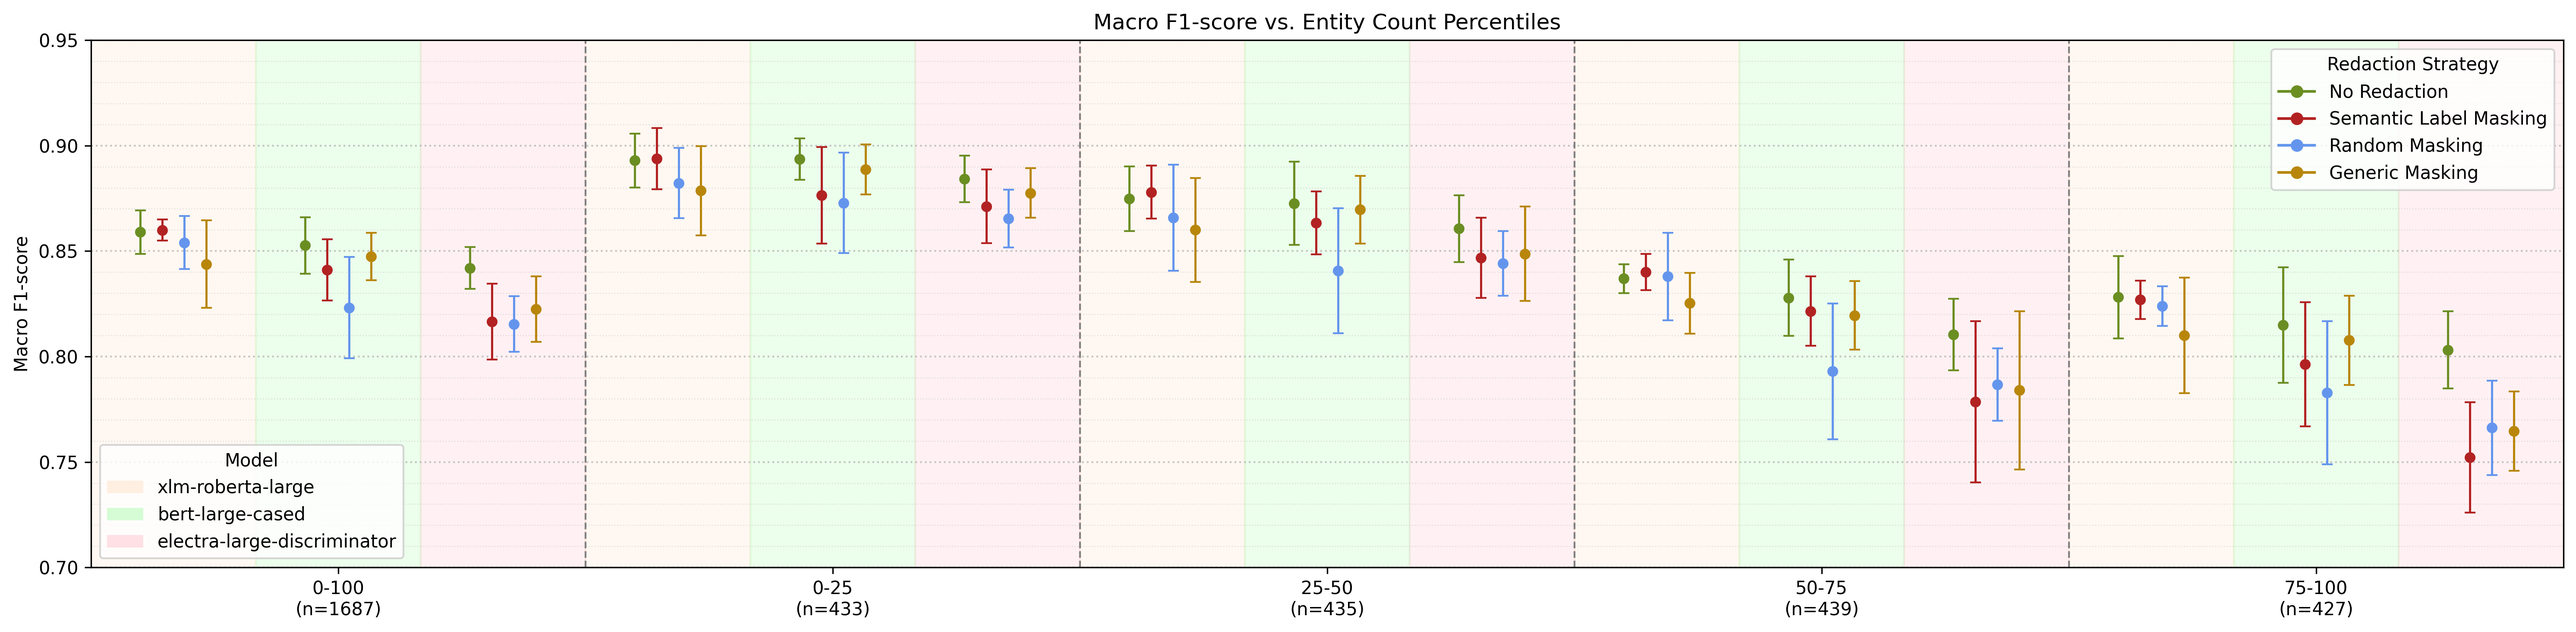
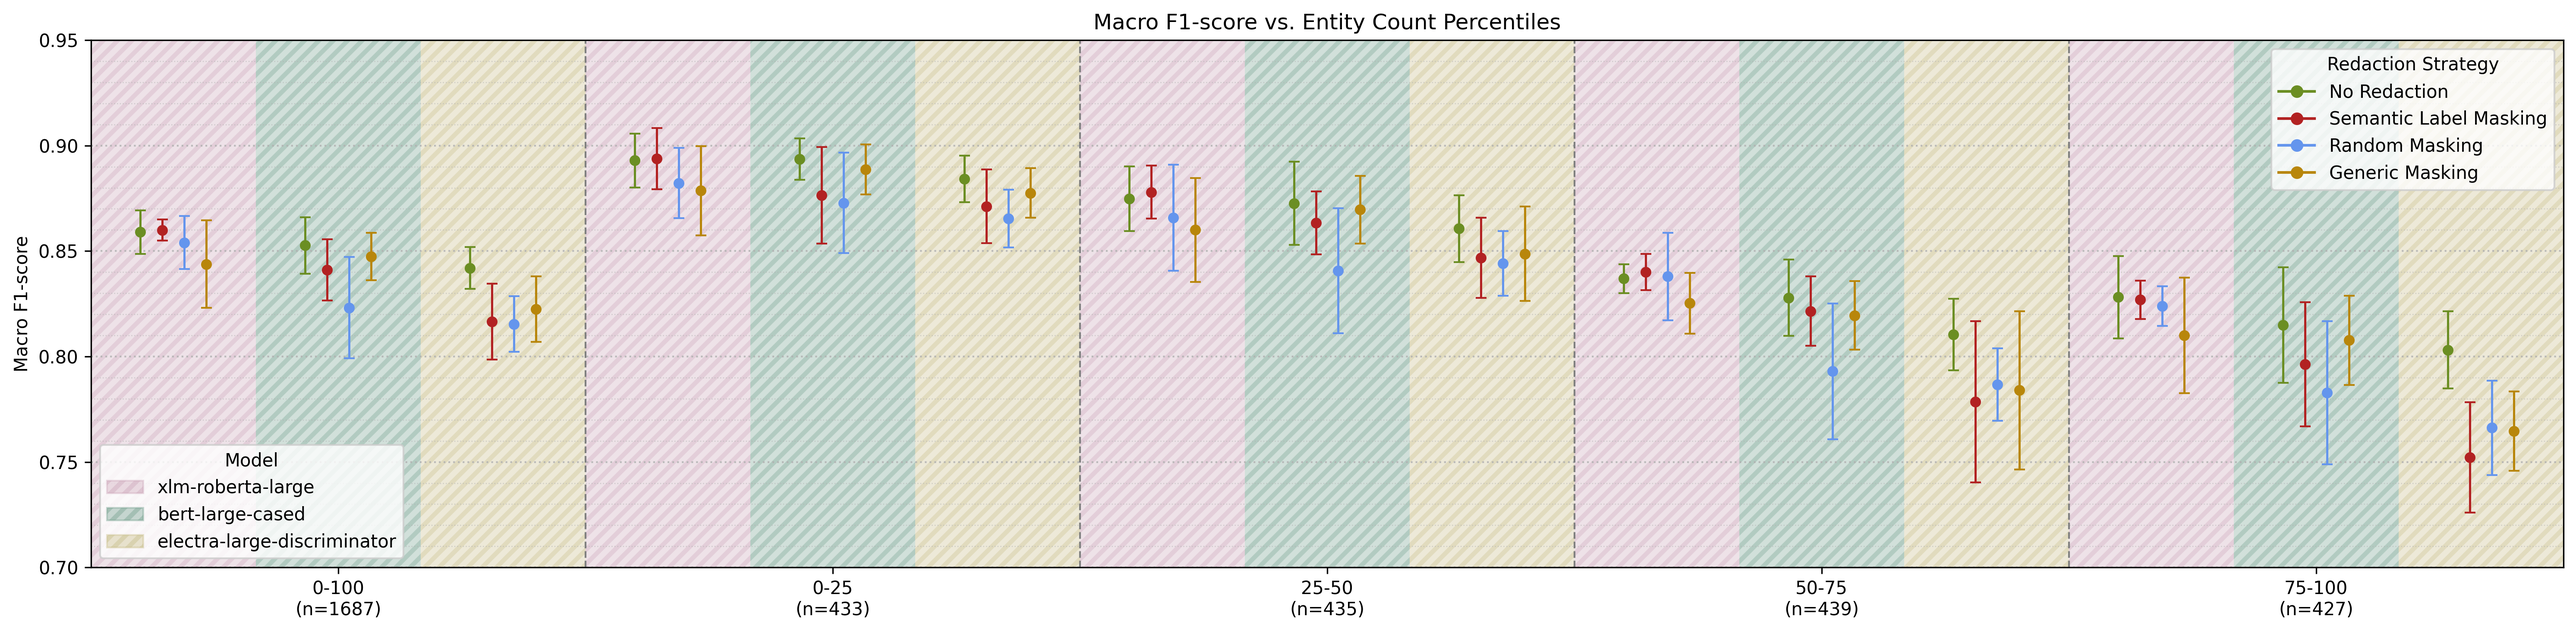
RTXU-01: Add plot for mic mltc performance and update README.md

diff --git a/src/utils/plot_utils.py b/src/utils/plot_utils.py
@@ -1,5 +1,5 @@
 from pathlib import Path
-from typing import Any, Dict
+from typing import Any, Dict, List
 
 from matplotlib.lines import Line2D
 from matplotlib.patches import Patch
@@ -127,6 +127,99 @@ class PlotUtils:
         return pd.DataFrame(out, index=df.index)
     
     @staticmethod
+    def plot_mic_mltc_classifier_performance(performance_df: pd.DataFrame,
+                                             model_names: List[str],
+                                             redaction_strategies: List[str],
+                                             model_bg_colors: Dict[str, str],
+                                             strategy_styles: Dict[str, Dict[str, Any]],
+                                             figsize=(7, 4)) -> plt.Figure:
+
+        n_strategies = len(redaction_strategies)
+        strategy_offsets = np.linspace(-0.2, 0.2, n_strategies)
+
+        fig, ax = plt.subplots(figsize=figsize)
+        plt.rcParams['hatch.linewidth'] = 2.5
+
+        df_expanded = PlotUtils.expand_mean_std_columns(performance_df)
+
+        x_positions = list()
+        x = 0
+        for model_name in model_names:
+
+            ax.axvspan(
+                x - 0.5,
+                x + 0.5,
+                facecolor=model_bg_colors[model_name],
+                alpha=0.33,
+                edgecolor=model_bg_colors[model_name],
+                hatch='///',
+                linewidth=0,
+                zorder=0
+            )
+
+            for s_idx, strategy in enumerate(redaction_strategies):
+                style = strategy_styles[strategy]
+
+                mean = df_expanded.loc[strategy, f"{model_name}_mean"]
+                std = df_expanded.loc[strategy, f"{model_name}_std"]
+
+                ax.errorbar(
+                    x + strategy_offsets[s_idx],
+                    mean,
+                    yerr=std,
+                    fmt=style["marker"],
+                    color=style["color"],
+                    ecolor=style["color"],
+                    elinewidth=1.2,
+                    capsize=3,
+                    markersize=5,
+                    linewidth=1,
+                    zorder=3
+                )
+
+            x_positions.append(x)
+            x += 1
+
+        ax.set_xticks(x_positions)
+        ax.set_xticklabels(model_names)
+
+        ax.set_ylabel("Macro F1-score", labelpad=15)
+        ax.set_ylim(0.55, 0.80)
+
+        ax.yaxis.set_major_locator(MultipleLocator(0.05))
+        ax.yaxis.set_minor_locator(MultipleLocator(0.01))
+
+        ax.grid(axis="y", which="major", linestyle=":", linewidth=1.0, alpha=0.8)
+        ax.grid(axis="y", which="minor", linestyle=":", linewidth=0.6, alpha=0.5)
+        ax.tick_params(axis="y", which="minor", length=0)
+
+        ax.set_xlim(-0.5, x - 0.5)
+        ax.set_title("Macro F1-score by Model and Redaction Strategy")
+
+        legend_elements = [
+            Line2D(
+                [0], [0],
+                marker=style["marker"],
+                color=style["color"],
+                label=strategy,
+                linestyle="-"
+            )
+            for strategy, style in strategy_styles.items()
+        ]
+
+        strategy_legend = ax.legend(
+            handles=legend_elements,
+            title="Redaction Strategy",
+            loc="upper right",
+            frameon=True
+        )
+
+        ax.add_artist(strategy_legend)
+
+        plt.tight_layout()
+        return fig, ax
+    
+    @staticmethod
     def plot_echr_tc_classifier_performance_type_one(model_dfs,
                                                      model_names,
                                                      percentile_labels,
@@ -139,6 +232,7 @@ class PlotUtils:
         strategy_offsets = np.linspace(-0.2, 0.2, n_strategies)
 
         fig, ax = plt.subplots(figsize=figsize)
+        plt.rcParams['hatch.linewidth'] = 2.5
 
         x = 0
         region_boundaries = list()
@@ -154,8 +248,11 @@ class PlotUtils:
                 ax.axvspan(
                     x - 0.5,
                     x + 0.5,
-                    color=model_bg_colors[model_name],
-                    alpha=0.18,
+                    facecolor=model_bg_colors[model_name],
+                    alpha=0.33,
+                    edgecolor=model_bg_colors[model_name],
+                    hatch='///',
+                    linewidth=0,
                     zorder=0
                 )
 
@@ -209,7 +306,7 @@ class PlotUtils:
             which="major",
             linestyle=":",
             linewidth=1.0,
-            alpha=0.7
+            alpha=0.8
         )
 
         ax.grid(
@@ -217,7 +314,7 @@ class PlotUtils:
             which="minor",
             linestyle=":",
             linewidth=0.6,
-            alpha=0.35
+            alpha=0.5
         )
 
         ax.tick_params(axis="y", which="minor", length=0)
@@ -244,8 +341,9 @@ class PlotUtils:
         model_legend_elements = [
             Patch(
                 facecolor=model_bg_colors[model],
-                edgecolor="none",
-                alpha=0.4,
+                alpha=0.40,
+                edgecolor=model_bg_colors[model],
+                hatch='///',
                 label=model
             )
             for model in model_names

diff --git a/src/main.py b/src/main.py
@@ -329,6 +329,75 @@ if __name__ == "__main__":
     logger.info(f"Performance metrics summary table:\n{table_report.to_markdown()}")
     """
 
+    ### Plot macro F1-score by entity percentiles for all models and redaction strategies
+    """
+    table_report = ReportUtils.get_performance_metrics_summary_table(
+        metrics_dir=project_root / "metrics" / "DATEXIS" / "med_intent_classification" / "mltc",
+        row_dimension='redaction_strategy',
+        row_values_order=['unredacted', 'semantic_label_mask', 'random_mask', 'generic_mask'],
+        column_dimension='model_name',
+        column_values_order=['xlm-roberta-large', 'bert-large-cased', 'microsoft--BiomedNLP-BiomedBERT-base-uncased-abstract'],
+        class_or_stat='macro avg',
+        hierarchy=['model_name', 'redaction_strategy', 'metric_type'],
+        fixed_dimensions={'metric_type': 'f1-score'},
+        model_name_aliases={
+            'xlm-roberta-large': 'xlm-roberta-large',
+            'bert-large-cased': 'bert-large-cased',
+            'microsoft--BiomedNLP-BiomedBERT-base-uncased-abstract': 'pubmedbert-base-uncased'
+        },
+        redaction_strategy_aliases={
+            'unredacted': 'No Redaction',
+            'semantic_label_mask': 'Semantic Label Masking',
+            'random_mask': 'Random Masking',
+            'generic_mask': 'Generic Masking'
+        }
+    )
+    strategy_styles = {
+        "No Redaction": {
+            "color": "olivedrab",
+            "marker": "o"
+        },
+        "Semantic Label Masking": {
+            "color": "firebrick",
+            "marker": "o"
+        },
+        "Random Masking": {
+            "color": "cornflowerblue",
+            "marker": "o"
+        },
+        "Generic Masking": {
+            "color": "darkgoldenrod",
+            "marker": "o"
+        }
+    }
+    
+    fig, ax = PlotUtils.plot_mic_mltc_classifier_performance(
+        performance_df=table_report,
+        model_names=[
+            "xlm-roberta-large",
+            "bert-large-cased",
+            "pubmedbert-base-uncased"
+        ],
+        redaction_strategies=list(strategy_styles.keys()),
+        model_bg_colors={
+            "xlm-roberta-large": "#cea8bb",
+            "bert-large-cased": "#75a190",
+            "pubmedbert-base-uncased": "#c9bf89"
+        },
+        strategy_styles=strategy_styles,
+        figsize=(7, 4)
+    )
+
+    figure_dir = project_root / "plots" / "DATEXIS" / "med_intent_classification" / "mltc"
+    figure_dir.mkdir(parents=True, exist_ok=True)
+
+    fig.savefig(
+        figure_dir / "macro_f1_score_by_model_and_redaction_strategy.png",
+        dpi=300,
+        bbox_inches="tight"
+    )
+    """
+
 
     ### ECHR Dataset Analysis
     """
@@ -773,9 +842,9 @@ if __name__ == "__main__":
         },
         redaction_strategies=list(strategy_styles.keys()),
         model_bg_colors={
-            "xlm-roberta-large": "peachpuff",
-            "bert-large-cased": "palegreen",
-            "electra-large-discriminator": "lightpink"
+            "xlm-roberta-large": "#cea8bb",
+            "bert-large-cased": "#75a190",
+            "electra-large-discriminator": "#c9bf89"
         },
         strategy_styles=strategy_styles
     )
@@ -787,7 +856,7 @@ if __name__ == "__main__":
         figure_dir / "macro_f1_models_vs_entity_percentiles_redaction_strategies.png",
         dpi=300,
         bbox_inches="tight"
-    ) 
+    )
     """
 
     ### Plot macro F1-score comparison between No Redaction and other redaction strategies

diff --git a/README.md b/README.md
@@ -245,6 +245,9 @@ The following table shows <b>average performance across all folds with standard 
 | Random Masking         |       0.72 ± 0.04 |      0.66 ± 0.04 |             0.62 ± 0.04 |
 | Generic Masking        |       0.72 ± 0.04 |      0.69 ± 0.01 |             0.62 ± 0.04 |
 
+<img src="plots/DATEXIS/med_intent_classification/mltc/macro_f1_score_by_model_and_redaction_strategy.png" width="80%" />
+
+<br/>
 
 ## European Court of Human Rights Dataset ([AUEB-NLP](https://huggingface.co/AUEB-NLP))
 
